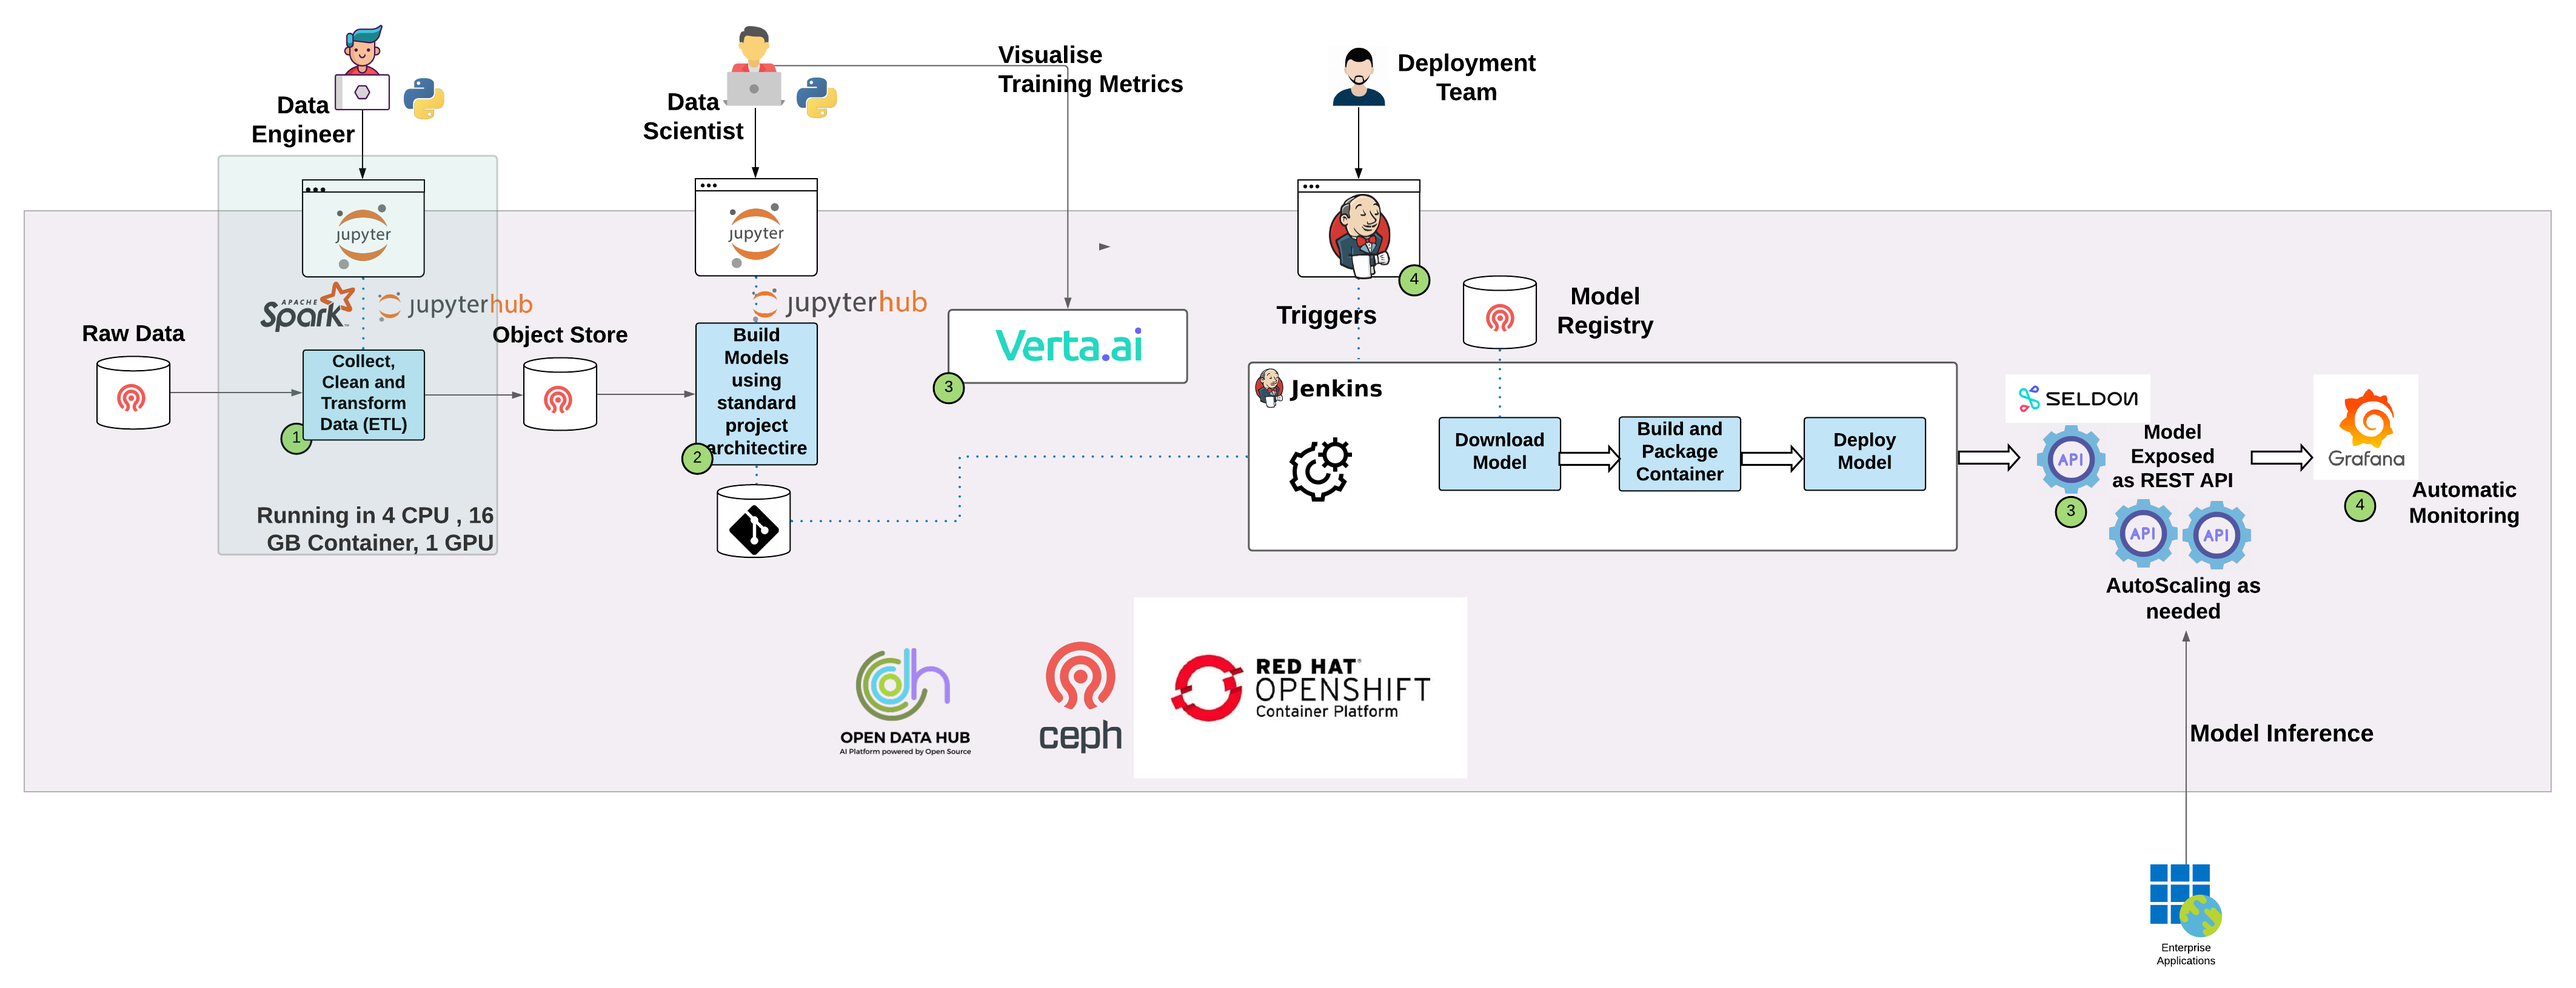
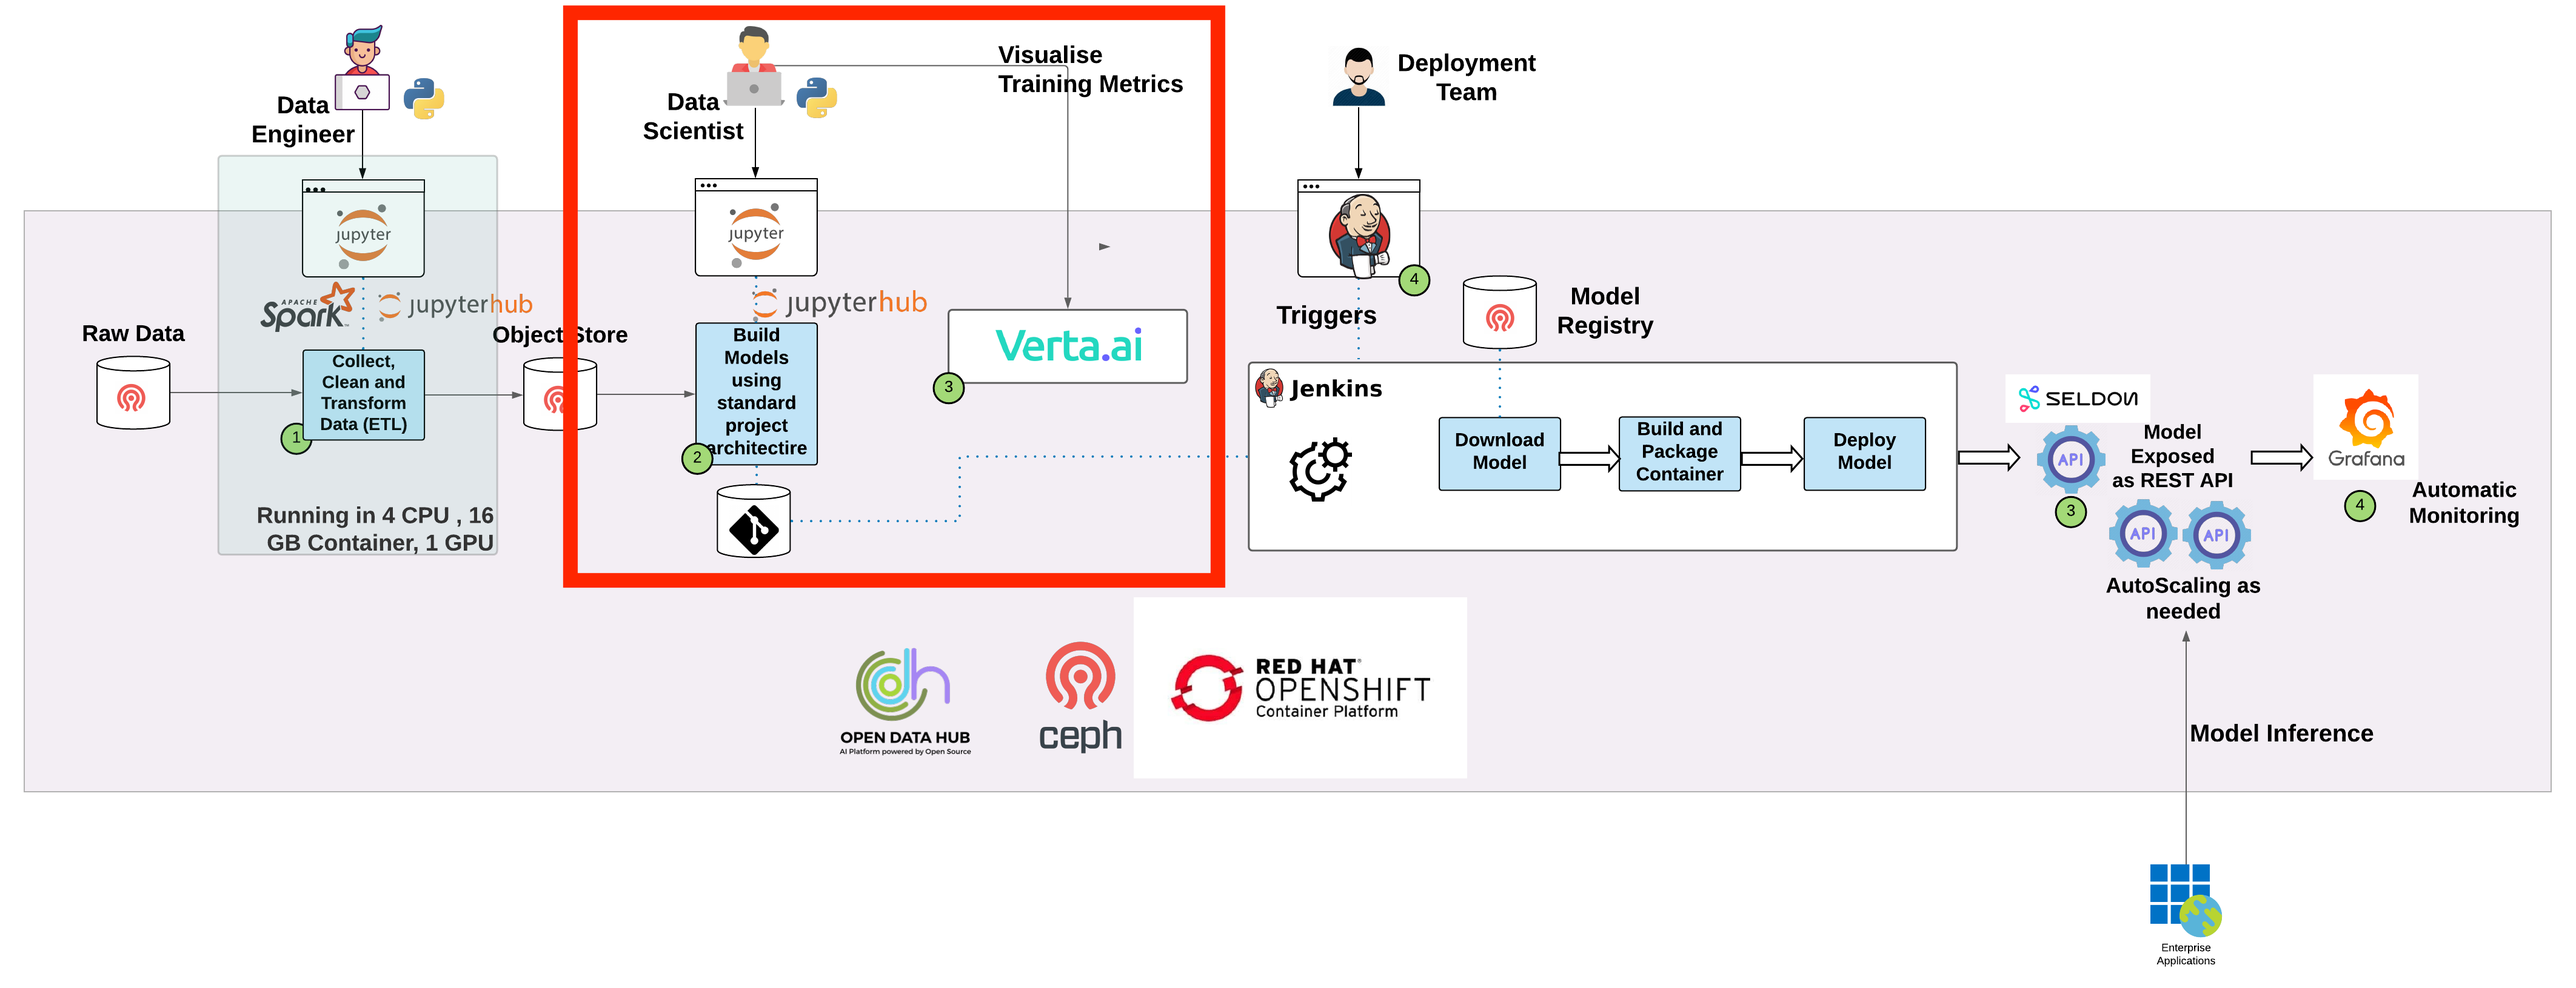
Adding documentation

Changed region(s): [[0.2175, 0.0, 0.4971, 0.6131]]

diff --git a/docs/workshop-2-3-4-data-science.md b/docs/workshop-2-3-4-data-science.md
@@ -1,0 +1,21 @@
+# Data Scientist visualises and analyses prepared data, experiments and trains model.
+
+## Introduction
+In our second workshop sub-module the data scientist begins their work - also with a dedicated Jupyter Notebook. They analyse and visualise the data prepared by the data engineer in the previous step.
+
+Then then exeriment with different training algorithms, _DecisionTreeClassifier_ and _RandomForestClassifier_, and picks the best one.
+
+Then then train the model using their selected algorithem.
+
+This diagram highlights the flow at this stage:
+![](https://github.com/masoodfaisal/ml-workshop/blob/main/docs/images/8-FM-ML-Workshop-visual.png)
+
+## Instructions
+At the end of the previous section, you logged out of JupyterHub - and you should see a screen like this:
+![](https://github.com/masoodfaisal/ml-workshop/blob/main/docs/images/9-start-Jupyter.png)
+
+Go ahead and start it up - and you'll again see the Spawn page - this time select the Data Science focused image, based on Elyra - which we built to save time and keep a consistent image across the organisation:
+![](https://github.com/masoodfaisal/ml-workshop/blob/main/docs/images/10-j-hub-spawner-elyra.png)
+
+Once in, navigate to and open ml-workshop/notebook
+

diff --git a/docs/README.md b/docs/README.md
@@ -8,10 +8,7 @@ This diagram depicts the flow and actors involved at each stage:
 
 Today's workshop will be split up into sub-modules - logically following this workflow. 
 - [Data Engineer prepares data](https://github.com/masoodfaisal/ml-workshop/blob/main/docs/workshop-1-data-engineer.md)
-- [Data Scientist visualises and analyses prepared data](https://github.com/masoodfaisal/ml-workshop/blob/main/docs/workshop-2-data-science-visuals.md)
-- [Data Scientist performs model experimentation](https://github.com/masoodfaisal/ml-workshop/blob/main/docs/workshop-3-data-science-experiments.md)
-- [Data Scientist trains best identified model](https://github.com/masoodfaisal/ml-workshop/blob/main/docs/workshop-4-data-science-training.md)
-- [Data Engineer prepares data](https://github.com/masoodfaisal/ml-workshop/blob/main/docs/workshop-1-data-engineer.md)
+- [Data Scientist visualises and analyses prepared data, experiments and trains model.](https://github.com/masoodfaisal/ml-workshop/blob/main/docs/workshop-2-3-4-data-science.md)
 - [OpenShift's ML/OPs deploys the model to production](https://github.com/masoodfaisal/ml-workshop/blob/main/docs/workshop-5-deployment.md)
 
 

diff --git a/docs/workshop-1-data-engineer.md b/docs/workshop-1-data-engineer.md
@@ -42,7 +42,7 @@ This is a summary of what happens in the notebook (further details on the notebo
 Now close down your Merge_Data.ipynb notebook and move to the control panel - as shown. 
 ![](https://github.com/masoodfaisal/ml-workshop/blob/main/docs/images/6-control-panel.png)
 
-We need to shut down our server - because we'll need to spawn new images shortly as a Data Scientist:
+We need to shut Stop My server - because we'll need to spawn new images shortly as a Data Scientist:
 ![](https://github.com/masoodfaisal/ml-workshop/blob/main/docs/images/7-shutdown-jup.png)
 
 
